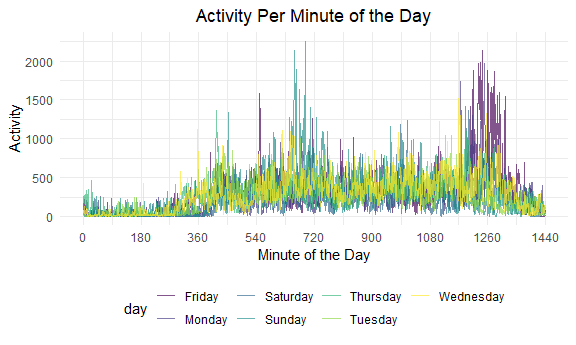
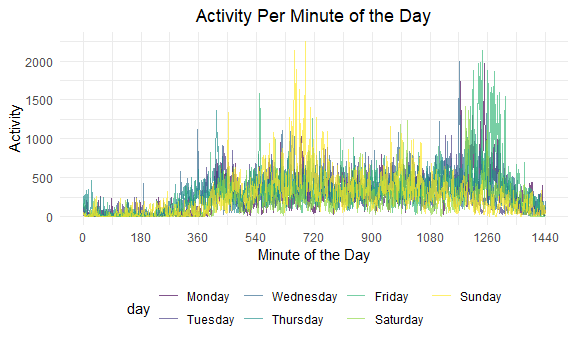
Problem 3 load and clean data.

diff --git a/p8105_hw3_dn2501.md b/p8105_hw3_dn2501.md
@@ -110,8 +110,9 @@ accel_df =
   mutate(
     week = factor(week), 
     day_type = factor(day_type), 
-    day = factor(day),
-    minute = as.double(minute))
+    day = factor(day), 
+    minute = as.double(minute)) %>% 
+  mutate(day = forcats::fct_relevel(day, c("Monday", "Tuesday", "Wednesday", "Thursday", "Friday", "Saturday")))
 ```
 
 The `accel_df` dataset contains 50400 rows and 6 columns. It shows the
@@ -132,41 +133,41 @@ accel_df %>%
 
 | week | day       | total\_activity |
 | :--- | :-------- | --------------: |
-| 1    | Friday    |          480543 |
 | 1    | Monday    |           78828 |
-| 1    | Saturday  |          376254 |
-| 1    | Sunday    |          631105 |
-| 1    | Thursday  |          355924 |
 | 1    | Tuesday   |          307094 |
 | 1    | Wednesday |          340115 |
-| 2    | Friday    |          568839 |
+| 1    | Thursday  |          355924 |
+| 1    | Friday    |          480543 |
+| 1    | Saturday  |          376254 |
+| 1    | Sunday    |          631105 |
 | 2    | Monday    |          295431 |
-| 2    | Saturday  |          607175 |
-| 2    | Sunday    |          422018 |
-| 2    | Thursday  |          474048 |
 | 2    | Tuesday   |          423245 |
 | 2    | Wednesday |          440962 |
-| 3    | Friday    |          467420 |
+| 2    | Thursday  |          474048 |
+| 2    | Friday    |          568839 |
+| 2    | Saturday  |          607175 |
+| 2    | Sunday    |          422018 |
 | 3    | Monday    |          685910 |
-| 3    | Saturday  |          382928 |
-| 3    | Sunday    |          467052 |
-| 3    | Thursday  |          371230 |
 | 3    | Tuesday   |          381507 |
 | 3    | Wednesday |          468869 |
-| 4    | Friday    |          154049 |
+| 3    | Thursday  |          371230 |
+| 3    | Friday    |          467420 |
+| 3    | Saturday  |          382928 |
+| 3    | Sunday    |          467052 |
 | 4    | Monday    |          409450 |
-| 4    | Saturday  |            1440 |
-| 4    | Sunday    |          260617 |
-| 4    | Thursday  |          340291 |
 | 4    | Tuesday   |          319568 |
 | 4    | Wednesday |          434460 |
-| 5    | Friday    |          620860 |
+| 4    | Thursday  |          340291 |
+| 4    | Friday    |          154049 |
+| 4    | Saturday  |            1440 |
+| 4    | Sunday    |          260617 |
 | 5    | Monday    |          389080 |
-| 5    | Saturday  |            1440 |
-| 5    | Sunday    |          138421 |
-| 5    | Thursday  |          549658 |
 | 5    | Tuesday   |          367824 |
 | 5    | Wednesday |          445366 |
+| 5    | Thursday  |          549658 |
+| 5    | Friday    |          620860 |
+| 5    | Saturday  |            1440 |
+| 5    | Sunday    |          138421 |
 
 According to the table, this 63-year-old appeared to be most active on
 Fridays, in general. His activity seemed relatively uniform for all
@@ -199,9 +200,50 @@ accel_df %>%
 
 Throughout the first 400 minutes of the day, the man displays minimal
 activity, which means he’s probably sleeping between the hours of 12AM
-to 7AM. There appear to be consistent spikes at around the 630-680
-minute marks on Sundays around 10-11AM, which could be due to scheduled
-exercise. There also appear to be peaks on Fridays between the 1200 and
-1300 minute marks, which could also be due to regularly scheduled
-workouts. He is generally most active Sunday afternoon (from 10 - 11AM)
-and Friday evening (from 8 - 10PM).
+and 7AM, regularly. There appear to be consistent spikes at around the
+630-680 minute marks on Sundays around 10-11AM, which could be due to
+scheduled exercise. There also appear to be peaks on Fridays between the
+1200 and 1300 minute marks, which could also be due to regularly
+scheduled workouts. He is generally most active Sunday afternoon (from
+10 - 11AM) and Friday evening (from 8 - 10PM).
+
+## Problem 3
+
+Load and clean the NY NOAA data:
+
+``` r
+data("ny_noaa")
+ny_noaa = 
+  ny_noaa %>% 
+  separate(date, into = c("year", "month", "day"), sep = "-") %>% 
+  mutate(
+    year = factor(year),
+    month = factor(month),
+    day = factor(day), 
+    tmax = as.double(tmax),
+    tmax = tmax / 10,
+    tmin = as.double(tmin),
+    tmin = tmin / 10,
+    prcp = prcp / 10)
+ny_noaa %>% 
+  group_by(snow) %>% 
+  summarize(n_obs = n())
+```
+
+    ## # A tibble: 282 x 2
+    ##     snow   n_obs
+    ##    <int>   <int>
+    ##  1   -13       1
+    ##  2     0 2008508
+    ##  3     3    8790
+    ##  4     5    9748
+    ##  5     8    9962
+    ##  6    10    5106
+    ##  7    13   23095
+    ##  8    15    3672
+    ##  9    18    3226
+    ## 10    20    4797
+    ## # ... with 272 more rows
+
+For snowfall, the most commonly observed value is 0, that is because it
+does not snow throughout the majority of the year in New York state.
